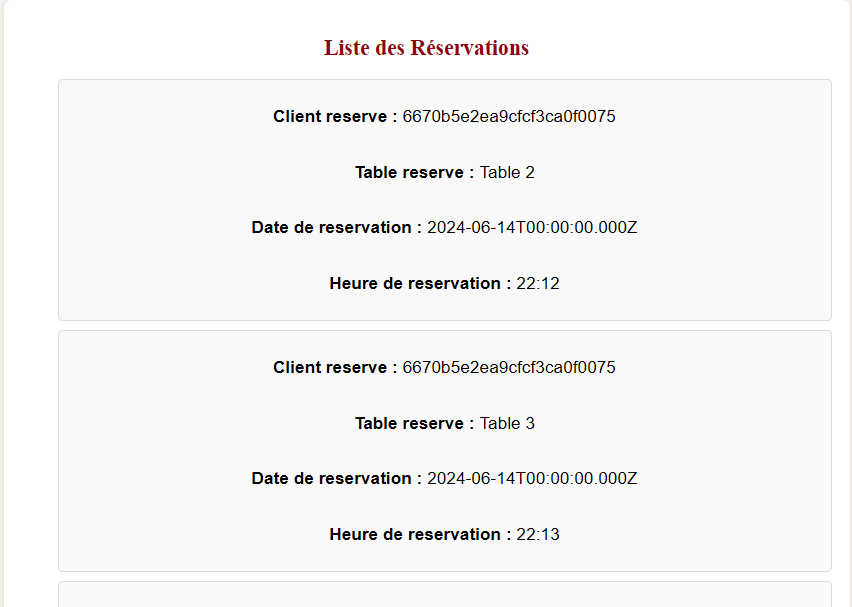
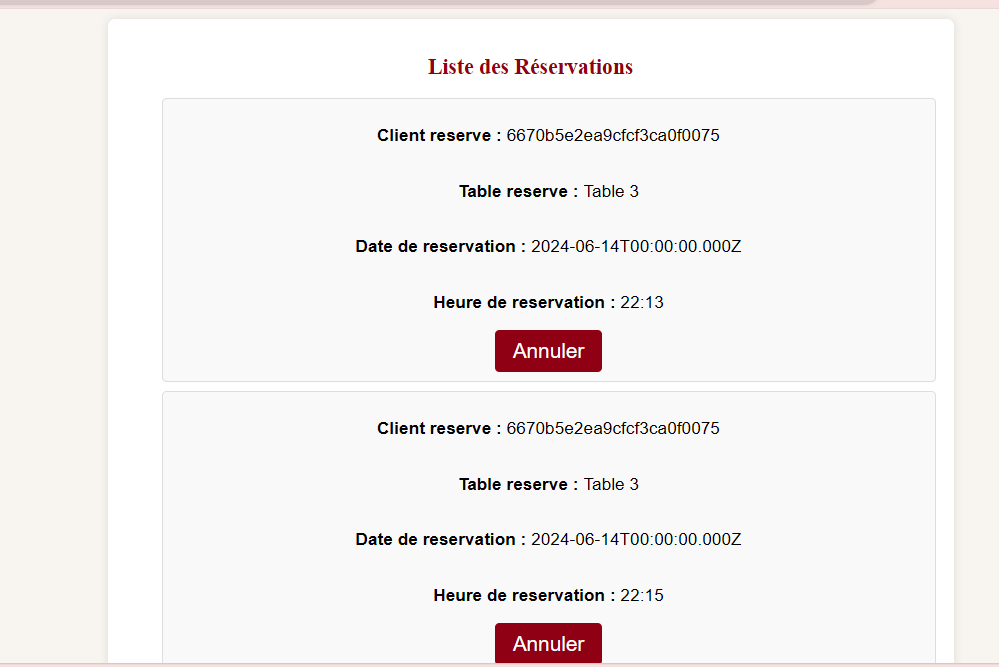
annuler_reservation

diff --git a/Client/src/Component/ListReservation.js b/Client/src/Component/ListReservation.js
@@ -29,6 +29,24 @@ const ReservationList = () => {
 
         fetchReservations(); // Appel de la fonction pour récupérer les réservations au chargement du composant
     }, []);
+    const deleteReservation = async (id) => {
+        try {
+            const response = await fetch(`http://localhost:5000/api/reservations/${id}`, {
+                method: 'DELETE',
+            });
+
+            if (response.ok) {
+                setReservations(reservations.filter(reservation => reservation._id !== id));
+                alert('Réservation supprimée avec succès');
+            } else {
+                alert('Erreur lors de la suppression de la réservation');
+            }
+        } catch (error) {
+            console.error('Erreur lors de la suppression de la réservation:', error);
+            alert('Erreur lors de la suppression de la réservation');
+        }
+    };
+
 
     return (
         <div className="reser-container">
@@ -42,8 +60,8 @@ const ReservationList = () => {
                             <p><strong>Date de reservation : </strong>{reservation.datereservation}</p>
                             <p><strong>Heure de reservation : </strong>{reservation.heurereservation}</p>
                             {/* action pour supprimer reservation */}
-                            <button>Delete</button>
-                            
+                            <button onClick={() => deleteReservation(reservation._id)}>Annuler</button>
+
                         </div>
                     </li>
                 ))}

diff --git a/Server/Routes/liste.js b/Server/Routes/liste.js
@@ -11,5 +11,17 @@ router.get('/reservations', async (req, res) => {
         res.status(500).json({ message: 'Erreur lors de la sélection des reservations', error });
     }
   });
+  // Route pour supprimer une réservation par ID
+router.delete('/reservations/:id', async (req, res) => {
+    try {
+        const reservation = await Reservation.findByIdAndDelete(req.params.id);
+        if (!reservation) {
+            return res.status(404).json({ message: 'Réservation non trouvée' });
+        }
+        res.json({ message: 'Réservation supprimée avec succès' });
+    } catch (error) {
+        res.status(500).json({ message: 'Erreur lors de la suppression de la réservation', error });
+    }
+});
 
 module.exports = router;
